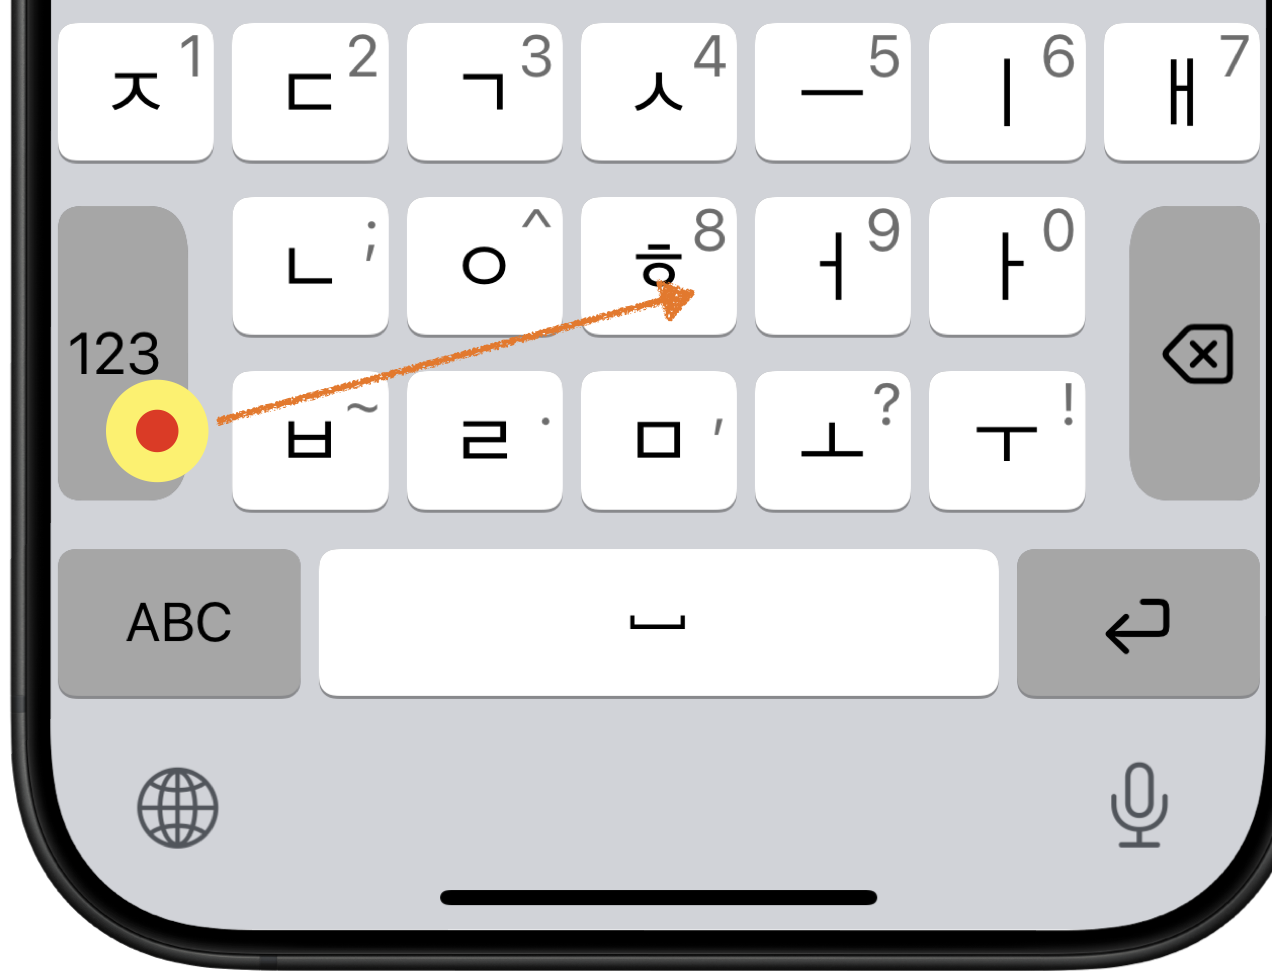
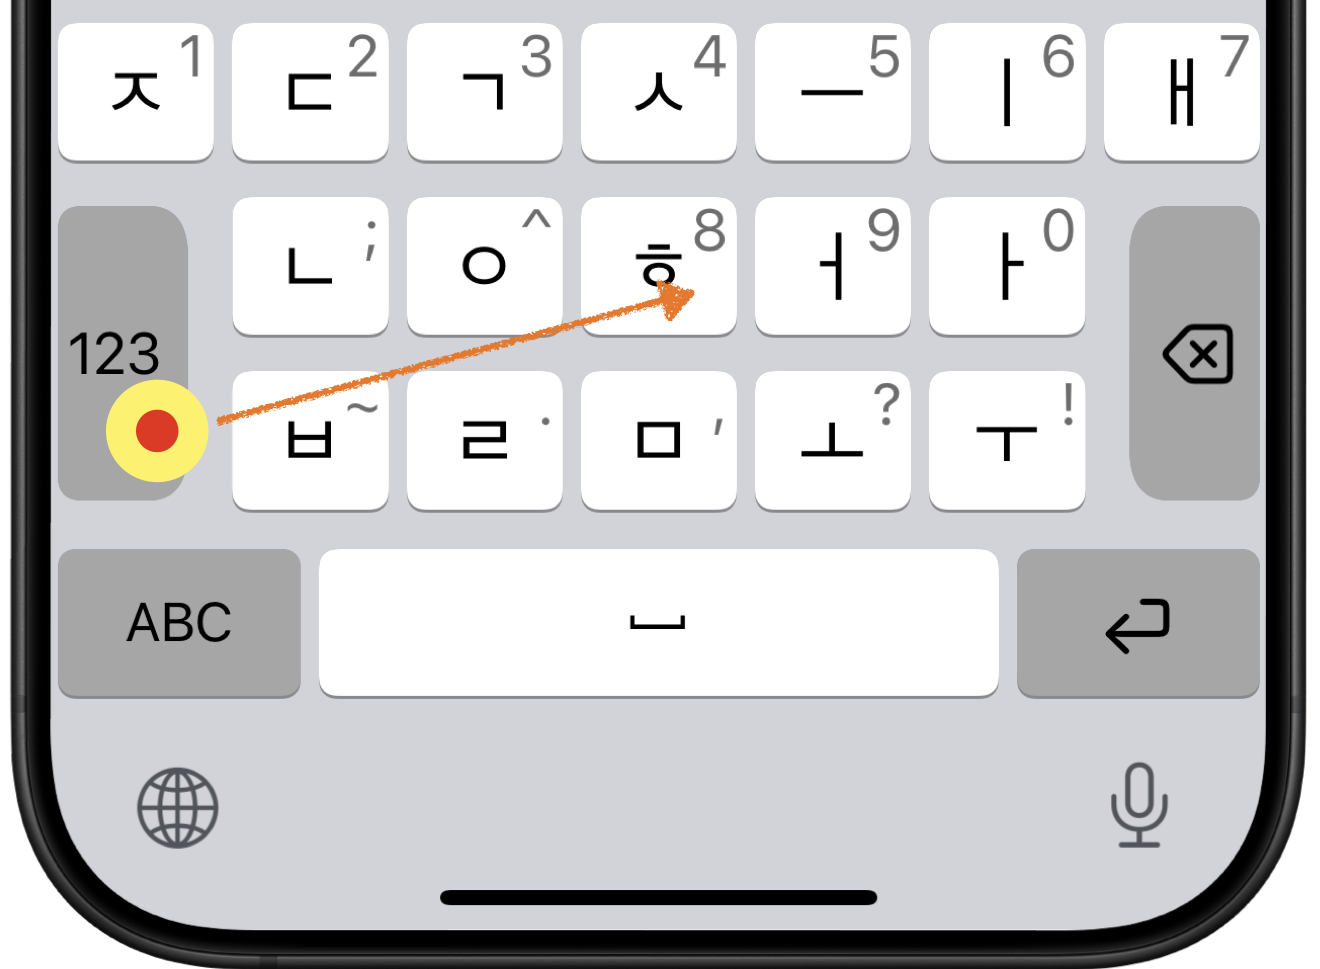
Add files via upload

diff --git a/manual.html b/manual.html
@@ -16,11 +16,11 @@
 </div></div>
 </div></div>
 <div style="clear:both"></div></div></div><div id="container_42e1be39"><div class="textstyle1"><img src="rc_images/djmkey_dark_wide_0061_1200x690.png" width="1200" height="690" id="img_76372fca" alt="" title="" /></div>
-</div><span class="textstyle7"><br/></span><span class="textstyle8"><br/></span><div id="container_541cc4d"><div id="container_541cc4d_padding" ><div class="textstyle2"><span class="textstyle9"><br/><br/>    </span><span class="textstyle10">&#45800;&#51088;&#51020;&#53412; &#47700;&#45684;&#50620;<br/></span><span class="textstyle9"><br/></span><span class="textstyle9"><br/><br/></span><img src="rc_images/djmkey_light_004_1096x1200.png" width="1096" height="1200" id="img_3ca701ed" alt="" title="" /><div id="container_5ed9721c"><div id="container_5ed9721c_padding" ><div class="textstyle2"><span class="textstyle11">&#44217;&#51088;&#51020; &#48143; &#44221;&#51088;&#51020; &#47564;&#46308;&#44592; (&#52395;&#48264;&#51704; &#48169;&#48277;)</span><span class="textstyle12"><br/>&#50500;&#47000; &#51088;&#49548;&#46308;&#51008; &#45908;&#48660; &#53552;&#52824;&#47196; &#47564;&#46317;&#45768;&#45796;<br/>- &#51088;&#51020; 5&#44060;: &#12619; &#12620; &#12618; &#12621; &#12611; &#12614;   <br/>- &#47784;&#51020;: &#12625; &#12629; &#12635; ...<br/><br/>&#50500;&#47000; &#51088;&#49548;&#46308;&#51008; &#53944;&#47532;&#54540; &#53552;&#52824;&#47196; &#47564;&#46317;&#45768;&#45796;<br/>&#12594; &#12600; &#12617; (3&#44032;&#51648; &#51088;&#51020;)  <br/></span></div>
-</div></div><span class="textstyle9"><br/><br/><br/></span><img src="rc_images/djmkey_light_006_1200x1027.png" width="1200" height="1027" id="img_4902854c" alt="" title="" /><div id="container_62709428"><div id="container_62709428_padding" ><div class="textstyle2"><span class="textstyle11">&#44217;&#51088;&#51020; &#48143; &#44221;&#51088;&#51020; &#47564;&#46308;&#44592; (&#46160;&#48264;&#51704; &#48169;&#48277;)</span><span class="textstyle12"><br/>&#44217;&#51088;&#51020; &#45824;&#51025; &#53412; &#8216;&#12601;&#8217; &#48260;&#53948;&#51012; &#44600;&#44172; &#53552;&#52824; &#54980; &#50948;&#51901; &#48169;&#54693;&#51004;&#47196; &#54540;&#47549;(&#50424;&#50612;&#50732;&#47532;&#44592;) &#54633;&#45768;&#45796; </span></div>
-</div></div><span class="textstyle9"><br/><br/></span><img src="rc_images/djmkey_light_007.png" width="1320" height="968" id="img_250423ca" alt="" title="" /><div id="container_4c8cc367"><div id="container_4c8cc367_padding" ><div class="textstyle2"><span class="textstyle11">&#51096;&#47803; &#51077;&#47141;&#46108; &#44221;&#51088;&#49548;&#51032; &#45800;&#51088;&#49548; &#46308;&#51012; &#44221;&#51088;&#49548;&#47196; &#48320;&#54872;</span><span class="textstyle12"><br/>'&#12594;' --&gt; &#8216;&#12619;&#12593;&#8217; &#50752; &#44057;&#51060; &#51096;&#47803;&#51077;&#47141;&#46108; &#44163;&#51060;&#46972;&#47732; &#53412;&#48372;&#46300; &#50612;&#45712; &#44275;&#51060;&#46304; &#50500;&#47000; &#48169;&#54693;&#51004;&#47196; &#54540;&#47549;&#54633;&#45768;&#45796; <br/><br/></span><span class="textstyle11">&#53944;&#47532;&#54540; &#53364;&#47533;&#51012; &#45824;&#52404;&#54616;&#45716; &#44221;&#51088;&#49548; &#47564;&#46308;&#44592;</span><span class="textstyle12"><br/>&#12593;, &#12599;, &#12616; &#51088;&#49548;&#50640;&#49436; &#50500;&#47000; &#48169;&#54693;&#51004; &#54540;&#47549;&#54633;&#45768;&#45796;<br/></span></div>
-</div></div><span class="textstyle9"><br/><br/><br/></span><img src="rc_images/djmkey_light_008.png" width="1320" height="965" id="img_5475a51b" alt="" title="" /><div id="container_4fe2a894"><div id="container_4fe2a894_padding" ><div class="textstyle2"><span class="textstyle11">&#46160;&#48264;&#51704; &#53412; &#47564;&#46308;&#44592; (&#52395;&#48264;&#51704; &#48169;&#48277;)</span><span class="textstyle12"><br/>&#50696;) ' 8 &#8216; &#53412;&#47484; &#50948;&#54644; ' &#12624; '&#53412;&#47484; &#45572;&#47476;&#51088; &#47560;&#51088; &#50948; &#48169;&#54693; &#54540;&#47549;(&#50424;&#50612;&#50732;&#47532;&#44592;) &#54633;&#45768;&#45796;</span></div>
-</div></div><span class="textstyle9"><br/><br/><br/></span><img src="rc_images/djmkey_light_009.png" width="1272" height="971" id="img_1c6e0b8e" alt="" title="" /><div id="container_5a2c13b7"><div id="container_5a2c13b7_padding" ><div class="textstyle2"><span class="textstyle11">&#46160;&#48264;&#51704; &#53412; &#47564;&#46308;&#44592; (&#46160;&#48264;&#51704; &#48169;&#48277;)</span><span class="textstyle12"><br/>&#50696;) '8'&#53412;&#47484; &#47564;&#46308;&#44592;&#50948;&#54644; &#8216;123&#8217;&#53412;&#47484; 0.5&#52488; &#51060;&#49345; &#45572;&#47480; &#52292;&#47196; &#50628;&#51648;&#47484; '&#12624;' &#50948;&#52824;&#47196; &#45132;&#50612; &#49440;&#53469;&#54616;&#44144;&#45208; &#45796;&#47480; &#49552;&#44032;&#46973;&#51004;&#47196; &#45572;&#47493;&#45768;&#45796;<br/></span></div>
+</div><span class="textstyle7"><br/></span><span class="textstyle8"><br/></span><div id="container_541cc4d"><div id="container_541cc4d_padding" ><div class="textstyle2"><span class="textstyle9"><br/><br/>    </span><span class="textstyle10">&#45800;&#51088;&#51020;&#53412; &#47700;&#45684;&#50620;<br/></span><span class="textstyle9"><br/></span><span class="textstyle9"><br/><br/></span><img src="rc_images/djmkey_light_004_1096x1200.png" width="1096" height="1200" id="img_3ca701ed" alt="" title="" /><div id="container_5ed9721c"><div id="container_5ed9721c_padding" ><div class="textstyle2"><span class="textstyle11">&#44217;&#51088;&#51020; &#48143; &#44221;&#51088;&#51020; &#47564;&#46308;&#44592; (&#52395;&#48264;&#51704; &#48169;&#48277;)</span><span class="textstyle12"><br/>&#50500;&#47000; &#51088;&#49548;&#46308;&#51008; &#45908;&#48660; &#53552;&#52824;&#47196; &#47564;&#46317;&#45768;&#45796;<br/>- &#51088;&#51020; 6&#44060;: &#12619; &#12620; &#12618; &#12621; &#12611; &#12614;   <br/>- &#47784;&#51020;: &#12625; &#12629; &#12635; ...<br/><br/>&#50500;&#47000; &#51088;&#49548;&#46308;&#51008; &#53944;&#47532;&#54540; &#53552;&#52824;&#47196; &#47564;&#46317;&#45768;&#45796;<br/>&#12594; &#12600; &#12617; (3&#44032;&#51648; &#51088;&#51020;)  <br/></span></div>
+</div></div><span class="textstyle9"><br/><br/><br/></span><img src="rc_images/djmkey_light_006_1200x1027.png" width="1200" height="1027" id="img_4902854c" alt="" title="" /><div id="container_62709428"><div id="container_62709428_padding" ><div class="textstyle2"><span class="textstyle11">&#44217;&#51088;&#51020; &#48143; &#44221;&#51088;&#51020; &#47564;&#46308;&#44592; (&#46160;&#48264;&#51704; &#48169;&#48277;)</span><span class="textstyle12"><br/>&#44217;&#51088;&#51020; &#45824;&#51025; &#53412; &#8216;&#12593;&#8217; &#48260;&#53948;&#51012; &#44600;&#44172; &#53552;&#52824; &#54980; &#50948;&#51901; &#48169;&#54693;&#51004;&#47196; &#54540;&#47549;(&#50424;&#50612;&#50732;&#47532;&#44592;) &#54633;&#45768;&#45796; </span></div>
+</div></div><span class="textstyle9"><br/><br/></span><img src="rc_images/djmkey_light_007.png" width="1320" height="968" id="img_250423ca" alt="" title="" /><div id="container_4c8cc367"><div id="container_4c8cc367_padding" ><div class="textstyle2"><span class="textstyle11">&#51096;&#47803; &#51077;&#47141;&#46108; &#44221;&#51088;&#49548;&#51032; &#45800;&#51088;&#49548; &#46308;&#51012; &#44221;&#51088;&#49548;&#47196; &#48320;&#54872;</span><span class="textstyle12"><br/>'&#12594;' &#51012; &#8216;&#12619;&#12593;&#8217; &#50752; &#44057;&#51060; &#51096;&#47803;&#51077;&#47141;&#54620; &#44163;&#51060;&#46972;&#47732; &#53412;&#48372;&#46300; &#50612;&#45712; &#44275;&#51060;&#46304; &#50500;&#47000; &#48169;&#54693;&#51004;&#47196; &#54540;&#47549;&#54633;&#45768;&#45796; <br/><br/></span><span class="textstyle11">&#51088;&#8203;&#49548; &#49325;&#51228; (&#46160;&#48264;&#51704; &#48169;&#48277;)</span><span class="textstyle12"><br/>&#50696;) '&#44036;' &#51012; &#51077;&#47141;&#54620; &#54980; '&#12596;'&#51012; &#49325;&#51228;&#54616;&#44592;&#50948;&#54644; &#50612;&#45712; &#44275;&#50640;&#49436;&#46304;&#51648; &#50500;&#47000; &#48169;&#54693;&#51004;&#47196; &#54540;&#47549;&#54633;&#45768;&#45796;</span></div>
+</div></div><span class="textstyle9"><br/><br/><br/></span><img src="rc_images/djmkey_light_008.png" width="1320" height="965" id="img_5475a51b" alt="" title="" /><div id="container_4fe2a894"><div id="container_4fe2a894_padding" ><div class="textstyle2"><span class="textstyle11">&#46160;&#48264;&#51704; &#53412; &#47564;&#46308;&#44592; (&#52395;&#48264;&#51704; &#48169;&#48277;)</span><span class="textstyle12"><br/>&#50696;) ' 8 &#8216; &#53412;&#47484; &#50948;&#54644; ' &#12622; '&#53412;&#47484; &#45572;&#47476;&#51088; &#47560;&#51088; &#50948; &#48169;&#54693; &#54540;&#47549;(&#50424;&#50612;&#50732;&#47532;&#44592;) &#54633;&#45768;&#45796;</span></div>
+</div></div><span class="textstyle9"><br/><br/><br/></span><img src="rc_images/djmkey_light_009.png" width="1320" height="969" id="img_1c6e0b8e" alt="" title="" /><div id="container_5a2c13b7"><div id="container_5a2c13b7_padding" ><div class="textstyle2"><span class="textstyle11">&#46160;&#48264;&#51704; &#53412; &#47564;&#46308;&#44592; (&#46160;&#48264;&#51704; &#48169;&#48277;)</span><span class="textstyle12"><br/>&#50696;) '8'&#53412;&#47484; &#47564;&#46308;&#44592;&#50948;&#54644; &#8216;123&#8217;&#53412;&#47484; 0.5&#52488; &#51060;&#49345; &#45572;&#47480; &#52292;&#47196; &#50628;&#51648;&#47484; '&#12622;' &#50948;&#52824;&#47196; &#45132;&#50612; &#49440;&#53469;&#54616;&#44144;&#45208; &#45796;&#47480; &#49552;&#44032;&#46973;&#51004;&#47196; &#45572;&#47493;&#45768;&#45796;<br/></span></div>
 </div></div><span class="textstyle9"><br/><br/><br/></span><img src="rc_images/djmkey_light_010_1200x1016.png" width="1200" height="1016" id="img_426fe36" alt="" title="" /><div id="container_7e510c81"><div id="container_7e510c81_padding" ><div class="textstyle2">  <span class="textstyle11">&#51088;&#51020; &#47784;&#51020; &#46041;&#49884;&#50640; &#45572;&#47476;&#44592; (&#47680;&#54000; &#53552;&#52824;) </span>
   <span class="textstyle12"><br/>&#50696;) ' &#44036; ' : &#50628;&#51648;&#47484; &#46524;&#51648; &#50506;&#44256; &#45796;&#47480; &#50628;&#51648;&#47196; &#51088;&#49548;&#47484; &#45572;&#47476;&#45716; &#47680;&#54000; &#53552;&#52824;&#44032; &#50756;&#51204;&#54616;&#44172; &#44396;&#54788;&#46104;&#50612; &#51080;&#49845;&#45768;&#45796; </span>
 </div>

diff --git a/index.html b/index.html
@@ -6,7 +6,7 @@
 <meta name="title” content=“단자음키 한글 키보드 ”>
 <meta name="keywords" content=“단자음키, 단자음키보드, 엄지키, 엄지키보드, 한글키보드추천, 아이폰한글키보드, 한글키, 한글키보드, 단모음, 단키, 넥스트플랜, nextplan, 핸드폰”>
 <meta name="description" content=“단자음키는 핸드폰에서 한글 입력시 단자음 10키와 단모음 8키를 이용하며 자동 오타 교정과 함께 동시 누름 방식을 적용하여 자연스러운 키 입력이 되도록 하였음”>
-	<title>단자음키 한글 키보드</title>
+<title>단자음키 한글 키보드</title>
 	<link rel="stylesheet" type="text/css" href="index_html.css?h=22882ead">
 </head>
 <body>
